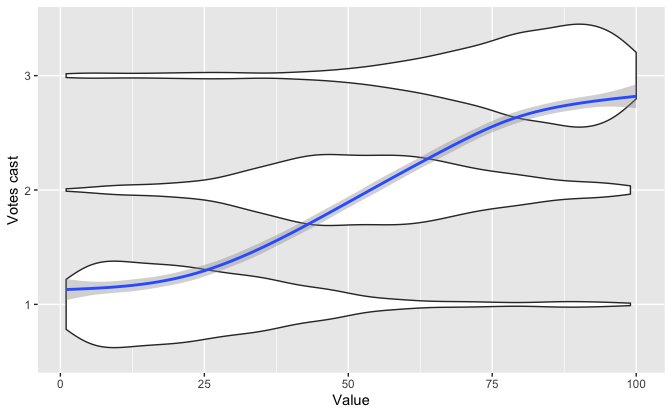
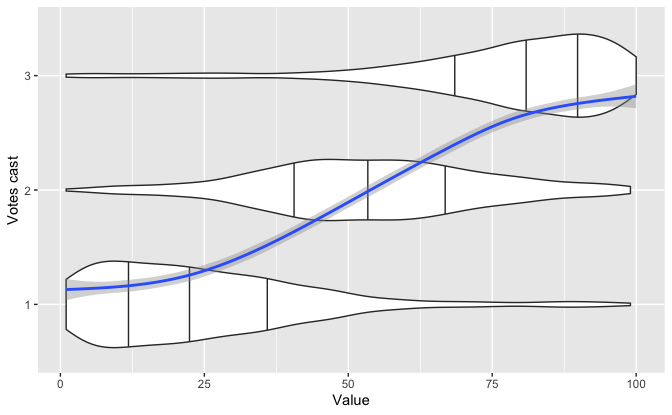
Initial commit

diff --git a/Storable/storable_tv.md b/Storable/storable_tv.md
@@ -1,7 +1,7 @@
 Regression and Other Stories: Storable
 ================
 Andrew Gelman, Jennifer Hill, Aki Vehtari
-2021-02-26
+2021-03-03
 
 -   [15 Other generalized linear
     models](#15-other-generalized-linear-models)
@@ -94,7 +94,11 @@ and 10 have 20.
 ``` r
 data %>% 
   ggplot(aes(value)) +
-  geom_violin(aes(y = vote_ord)) +
+  stat_ydensity(
+    aes(y = vote_ord),
+    draw_quantiles = c(0.25, 0.5, 0.75),
+    scale = "count"
+  ) +
   geom_smooth(aes(y = vote)) +
   labs(x = "Value", y = "Votes cast")
 ```
@@ -226,13 +230,13 @@ person_label <- function(x) {
 data_people %>% 
   unnest(data) %>% 
   ggplot() +
-  geom_count(aes(value, vote)) +
   geom_segment(
     aes(x = x, xend = x, y = y, yend = yend),
     data = segments,
     color = "grey60"
   ) +
   geom_line(aes(x, y), data = curves) +
+  geom_count(aes(value, vote)) +
   facet_wrap(
     facets = vars(person),
     ncol = 2,
